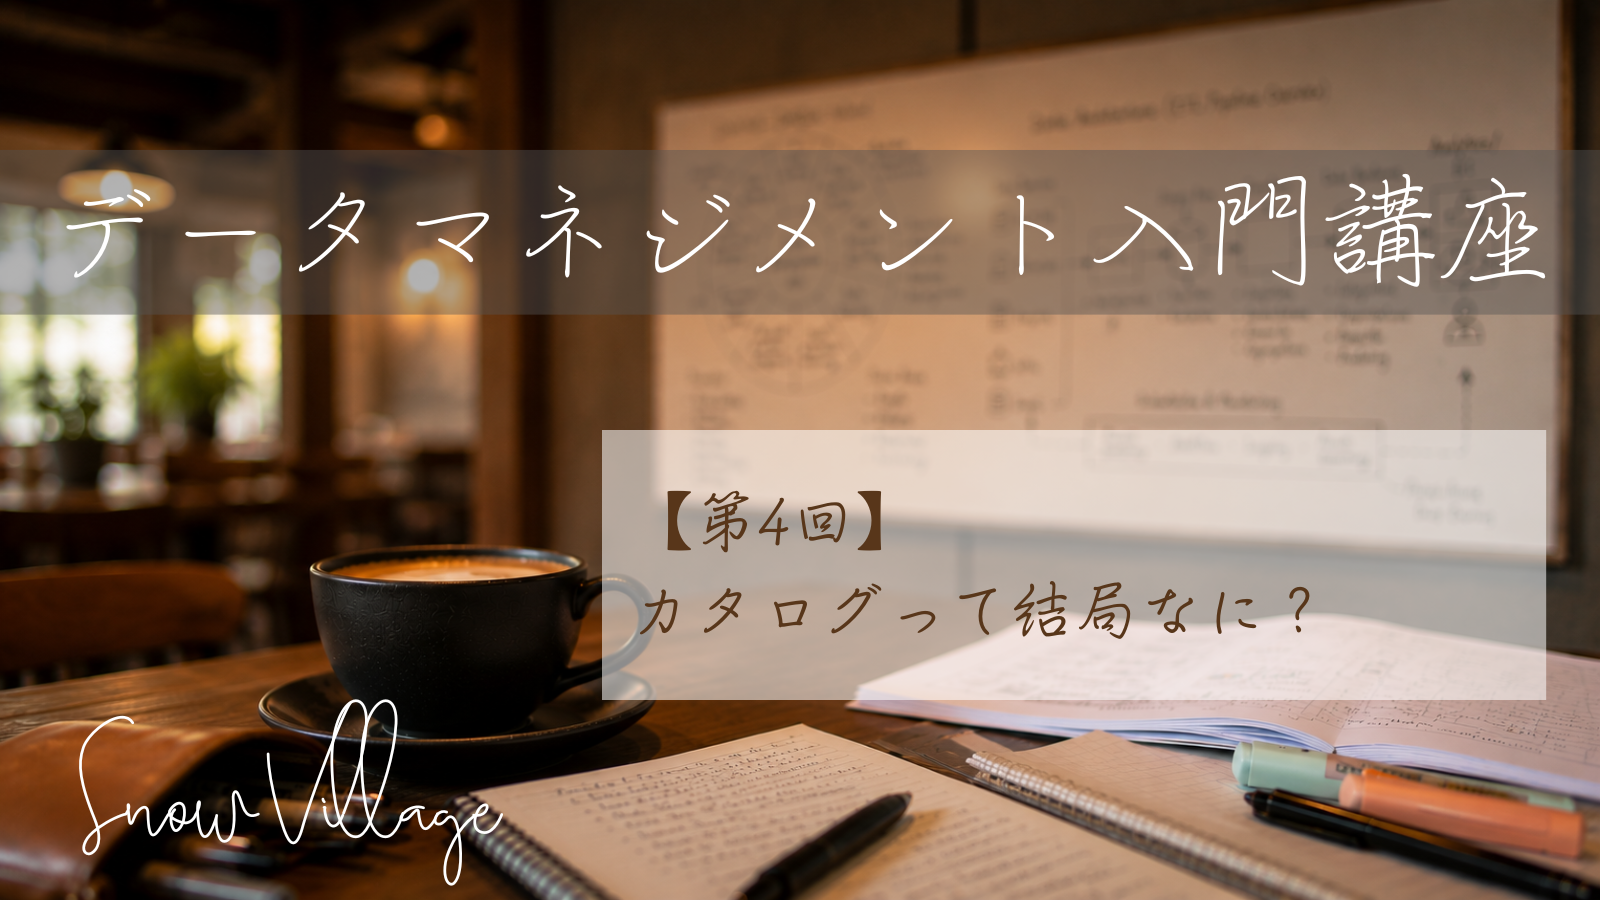
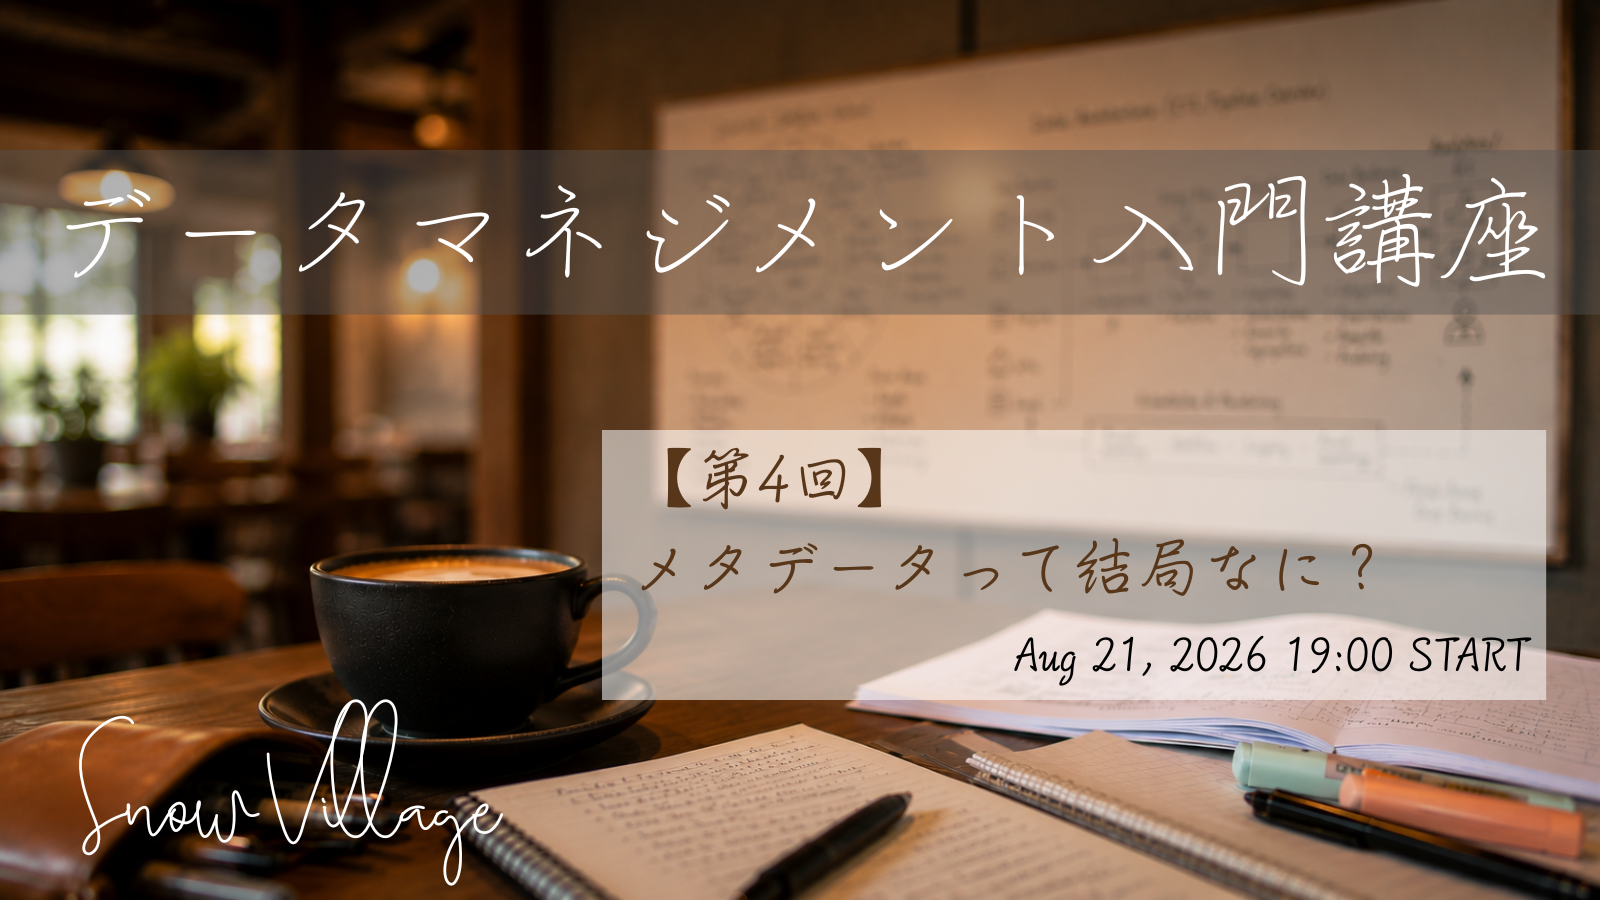
第 4 回準備: 日程確定 (8/21 金) と告知の更新
- 第 4 回 サムネを TechPlay (event/995336) リンク化、CTA オーバーレイ
  「TechPlay で申し込み受付中」を表示 (日時は画像に焼き込み)
- 第 4 回 サムネ画像を日時入りに差し替え、alt をタイトルに合わせ修正
- フロート + 最下部 Next Session を 第 4 回・8/21 (金) に更新
- 申し込み TechPlay URL を /995327 → /995336 に切り替え

Changed region(s): [[0.4062, 0.4978, 0.9688, 0.7467], [0.8438, 0.5911, 0.875, 0.6222]]

diff --git a/index.html b/index.html
@@ -109,10 +109,10 @@
 
         <!-- 第 4 回 -->
         <li class="session">
-          <div class="session-thumb session-thumb-overlay session-thumb-overlay--coming">
-            <img src="images/datamanagement-04.png" alt="第4回 カタログって結局なに？ サムネイル">
-            <span class="thumb-overlay-text">Coming Soon</span>
-          </div>
+          <a class="session-thumb session-thumb-overlay session-thumb-overlay--cta" href="https://techplay.jp/event/995336" target="_blank" rel="noopener" aria-label="第4回 TechPlay で申し込み（新しいタブ）">
+            <img src="images/datamanagement-04.png" alt="第4回 メタデータって結局なに？ サムネイル（8/21 金 19:00 開催）">
+            <span class="thumb-overlay-text">TechPlay で申し込み受付中</span>
+          </a>
           <div class="session-body">
             <h3 class="brush-heading session-title">第4回: メタデータって結局なに？</h3>
             <p class="session-speaker">講師: 株式会社電通総研　中山 晋一</p>
@@ -194,8 +194,8 @@
   <aside class="floating-panel" aria-label="次回開催の案内・運営情報">
     <section class="info-card">
       <p class="info-eyebrow">Next session</p>
-      <p>次回は <strong>第 3 回</strong>、<strong>7/9 (木)</strong> にオンラインで開催します。リアルタイム視聴は以下からお申し込みください。</p>
-      <p><a href="https://techplay.jp/event/995327" target="_blank" rel="noopener">TechPlay で申し込む →</a></p>
+      <p>次回は <strong>第 4 回</strong>、<strong>8/21 (金)</strong> にオンラインで開催します。リアルタイム視聴は以下からお申し込みください。</p>
+      <p><a href="https://techplay.jp/event/995336" target="_blank" rel="noopener">TechPlay で申し込む →</a></p>
     </section>
     <section class="info-card">
       <p class="info-eyebrow">Community</p>
@@ -208,8 +208,8 @@
     <div class="bottom-info-grid">
       <section class="info-card">
         <p class="info-eyebrow">Next session</p>
-        <p>次回は <strong>第 3 回</strong>、<strong>7/9 (木)</strong> にオンラインで開催します。リアルタイム視聴は以下からお申し込みください。</p>
-        <p><a href="https://techplay.jp/event/995327" target="_blank" rel="noopener">TechPlay で申し込む →</a></p>
+        <p>次回は <strong>第 4 回</strong>、<strong>8/21 (金)</strong> にオンラインで開催します。リアルタイム視聴は以下からお申し込みください。</p>
+        <p><a href="https://techplay.jp/event/995336" target="_blank" rel="noopener">TechPlay で申し込む →</a></p>
       </section>
       <section class="info-card">
         <p class="info-eyebrow">Community</p>
